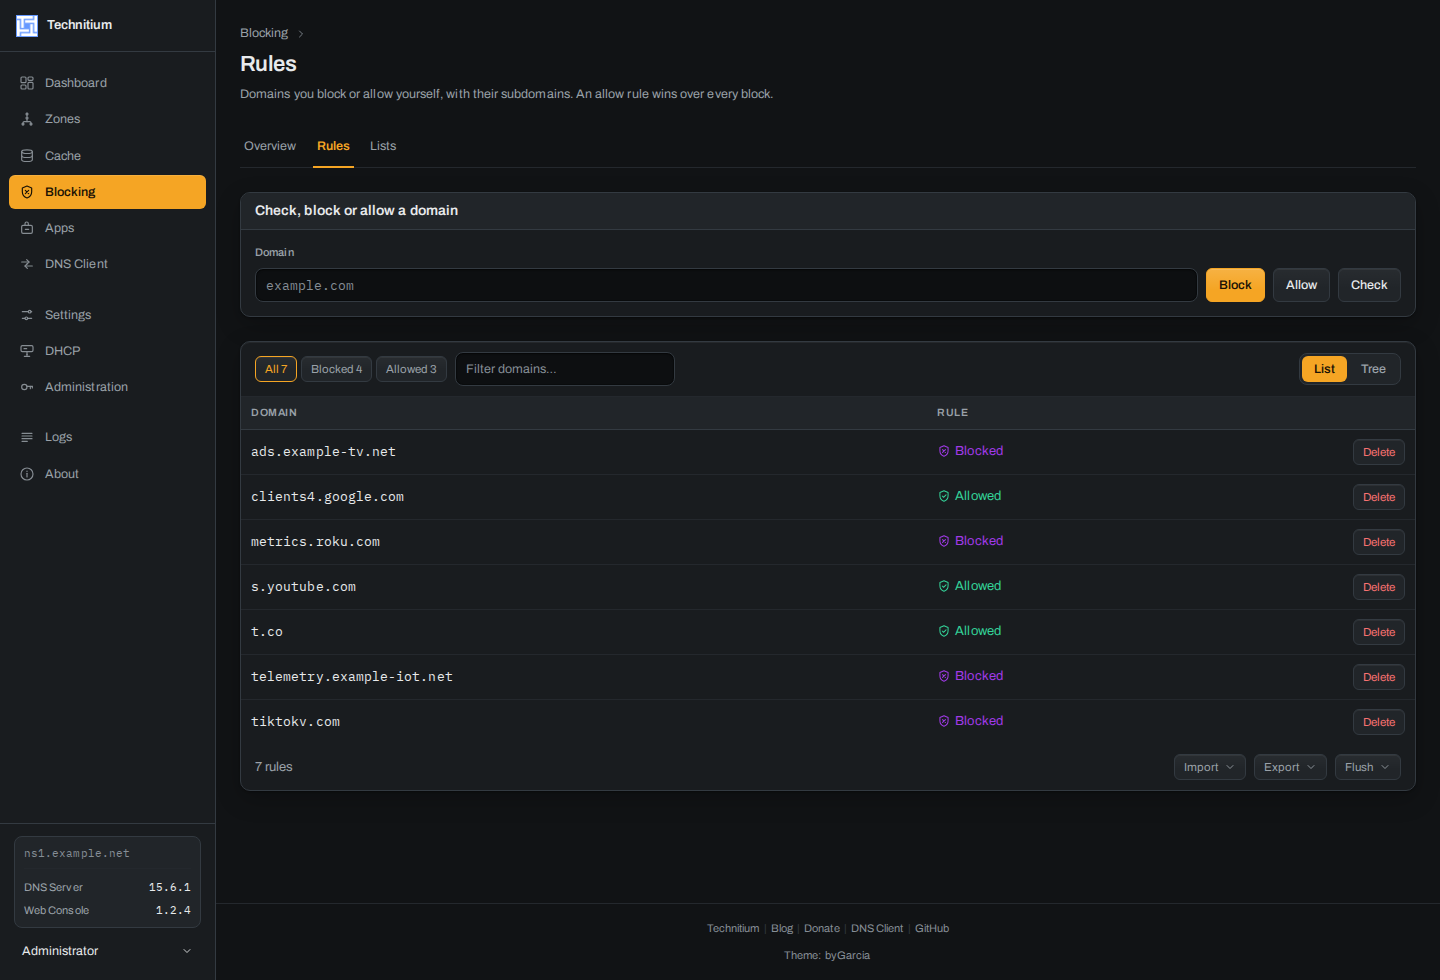
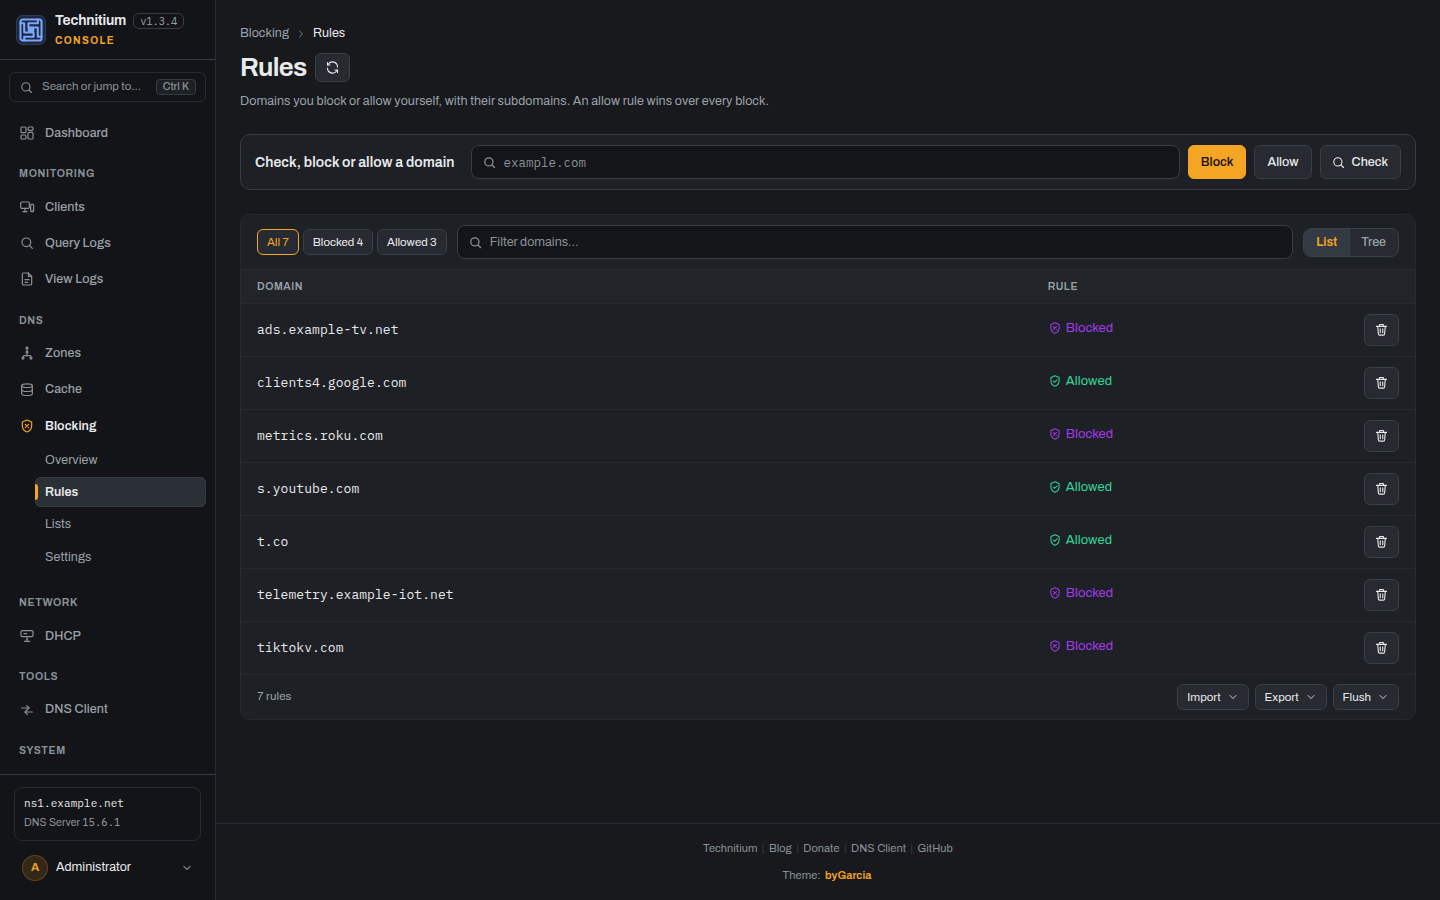
README: what the console adds, and every screen as it looks now
The README now says what this console brings beside the stock one: the Clients
page and its actions, the Dashboard's response times and resolution diagram,
Blocking in four tabs, the cluster views, Ctrl K and the regrouped sidebar, and
the four limits every addition keeps. The figures table is the scripts' again.
Every screenshot is retaken from the showcase, one per screen, and the social
preview is redrawn with the console's mark.

diff --git a/README.md b/README.md
@@ -3,7 +3,8 @@
 # technitium-console
 
 **A modern administration console for [Technitium DNS Server](https://github.com/TechnitiumSoftware/DnsServer).**
-Everything the stock console does, with blocking in one place, light and dark themes, and a layout
+Everything the stock console does, plus the screens it never had: who uses your DNS and what gets
+blocked for each device, every cluster node side by side, a search that jumps anywhere, and a layout
 that works on your phone.
 
 [![License](https://img.shields.io/github/license/byGarcia/technitium-console)](LICENSE)
@@ -14,38 +15,73 @@ that works on your phone.
 
 </div>
 
-| Dashboard | Blocking |
+| Dashboard | Clients |
 |---|---|
-| ![The dashboard](docs/screenshots/dashboard.png) | ![Blocking › Overview](docs/screenshots/blocking-overview.png) |
+| ![The dashboard](docs/screenshots/dashboard.png) | ![Clients, with one client open](docs/screenshots/clients.png) |
 
-**Latest: [v1.3.4](https://github.com/byGarcia/technitium-console/releases/latest) for Technitium DNS
-Server 15.5.x and 15.6.x**, with a Dashboard that moves in real time and compares periods, Allowed and Blocked as one
-Blocking section, a light theme, plus LDAP, the zone file editor and everything else 15.5 and 15.6
-brought.
+**Latest release: [v1.3.4](https://github.com/byGarcia/technitium-console/releases/latest) for
+Technitium DNS Server 15.5.x and 15.6.x.** What is coming next is under
+[Unreleased](CHANGELOG.md#unreleased).
 [What's new](CHANGELOG.md) · [Which console for which server](CHANGELOG.md#which-version-for-which-server) · [Installing](#installing) · [Technitium in Docker](#docker)
 
-It replaces the console the server ships with. Install it and the DNS service
-behaves exactly as before; remove it and you are back to the original. Nothing on
-the server side changes: this console talks to it only through its documented
-`/api` endpoints.
+It replaces the console the server ships with. Install it and the DNS service behaves exactly as
+before; remove it and you are back to the original. Nothing on the server side changes: this console
+talks to it only through the `/api` endpoints the stock console already uses.
 
 - **Every feature of the stock console**: zones, settings, DHCP, apps, logs and administration,
   through the same 132 API endpoints, with Technitium's own users and permissions.
-- **A Dashboard that answers at a glance**: every figure with its trend and its change against the
-  previous period, a week by hour, and charts that open Query Logs on what you click.
-- **Blocking in one place**: what it is doing, your own rules and your lists, and a check that tells
-  you why a domain is blocked, [below](#blocking-in-one-place).
-- **Light, dark or your system's theme**, measured for contrast in both.
-- **Works on a phone**: no section scrolls sideways at 390 px.
+- **Know who uses your DNS**: a Clients page with every device, how much it asks and how much of it
+  is blocked, and a card per client with its domains, its latest queries and one-click actions.
+- **A Dashboard that answers at a glance**: trends against the previous period, response times,
+  how each query was answered, and charts that open Query Logs on what you click or drag across.
+- **Blocking in one place**: what it is doing, your own rules, your lists and their settings, and a
+  check that tells you why a domain is blocked.
+- **Built for clusters**: zones, cache, query logs, DHCP and block lists from every node side by
+  side, with what disagrees between them marked.
+- **Ctrl K to anywhere**: any page, settings pane, zone or account action, or a domain to check,
+  resolve or look up in the logs.
+- **Light, dark or your system's theme**, measured for contrast in both, and **it works on a phone**:
+  no section scrolls sideways at 390 px.
 - **Nothing extra to run**: no backend, no database, no second login. It installs into the server's
   web folder or a Docker volume, and removing it brings the stock console back.
+
+## Know who uses your DNS
+
+The stock console lists your top clients as names and counts on the Dashboard. Here they are a
+page of their own, under **Monitoring › Clients**:
+
+- **Every client of the period**, with its queries, the share of them that was blocked and a tag
+  when a fifth or more is blocked or the server is rate limiting it. Filter, sort and search them,
+  or see the twenty busiest as one bar of who sends your traffic.
+- **A card for each client**: its address and, when your DHCP server hands it out, its MAC address
+  and host name; its queries, blocked share, cache hit rate and median response time; its activity
+  over time; the domains it asks for most and the ones blocked most, each with Block and Allow; the
+  protocols and record types it uses; and its ten latest queries.
+- **Act on it from there**: let it bypass blocking, exempt it from rate limiting, or turn its DHCP
+  lease into a reserved one. Each action is the server's own setting, asks before it saves and
+  needs the same permission it needs in Settings or DHCP.
+
+![A client's card: its actions, figures, activity and domains](docs/screenshots/client-detail.png)
+
+## A Dashboard that answers
+
+- **Every figure with its trend** and its change against the previous period, and a week by hour.
+- **Response Time**: the median and the 95th percentile of the answers the server had to fetch,
+  the share over 100 ms and a histogram, from the newest thousand queries.
+- **From query to answer**: one diagram from all the queries, through how the server answered them
+  (cache, recursion, its own zones, blocking) to what it answered (No Error, NX Domain, Server
+  Failure, Refused). Click a band to open those queries.
+- **Click a point, or drag across the chart**, and Query Logs opens on exactly that window.
+- **Last Hour moves in real time**, and Query Logs' Live Update shows what arrived since you turned
+  it on.
+
+![Response Time and From query to answer on the Dashboard](docs/screenshots/dashboard-response.png)
 
 ## Blocking, in one place
 
 The stock console spreads blocking over three places: Allowed and Blocked are two separate domain
 trees, and the block lists sit in Settings › Blocking. This console brings them together in one
-**Blocking** section, with what blocking is doing, your own rules and your lists each in one place.
-It is the one part of the console that goes beyond a new look:
+**Blocking** section:
 
 - **Overview** shows what blocking is doing: Total Queries and Blocked with their trend, the blocked
   share, allowed against blocked over time, the top blocked domains and the last ten blocked
@@ -53,47 +89,94 @@ It is the one part of the console that goes beyond a new look:
 - **Rules** puts every domain you blocked or allowed by hand in one table, filtered, searchable and
   paged however many there are. The domain tree you already know is one switch away.
 - **Lists** turns your block and allow lists into rows, each with its readable name, an Enabled
-  switch and Remove. Add one by URL or with Quick Add, update them all with Update Now, and nothing
-  changes until you Save.
+  switch and Remove, when each was last updated, and how the number of blocked domains has grown.
+  Add one by URL or with Quick Add, and Save and Update Now in one step.
+- **Settings** holds the blocking settings that used to live in Settings › Blocking.
 - **Check a domain** and see whether this server blocks it and why: which block lists, which of your
-  rules, or which allow rule lets it through.
+  rules, or which allow rule lets it through. As you type, it tells you whether one of your rules
+  already covers it.
 - **Group your lists** under named headings, saved as plain comment lines, so the stock console still
-  reads them.
-- **Undo** a rule you deleted from the Rules table, and see in the sidebar when blocking is off or
-  paused.
-- **Block or allow a domain** from Overview or Rules, or from the menu on any row of Top Domains and
-  Top Blocked Domains.
+  reads them, and **undo** a rule you deleted.
 
-| Rules | Lists |
+| Overview | Lists |
 |---|---|
-| ![Blocking › Rules](docs/screenshots/blocking-rules.png) | ![Blocking › Lists](docs/screenshots/blocking-lists.png) |
+| ![Blocking › Overview](docs/screenshots/blocking-overview.png) | ![Blocking › Lists](docs/screenshots/blocking-lists.png) |
 
-## What it looks like
-
-| Zones | Settings |
+| Rules | Settings |
 |---|---|
-| ![Zones](docs/screenshots/zones.png) | ![Settings](docs/screenshots/settings.png) |
+| ![Blocking › Rules](docs/screenshots/blocking-rules.png) | ![Blocking › Settings](docs/screenshots/blocking-settings.png) |
 
-| Cache, and the tree in Blocking › Rules | Apps |
+## Built for clusters
+
+Each node of a Technitium cluster keeps its own cache, query log, DHCP leases and copy of the block
+lists, and the stock console shows one node at a time. Here, on a cluster, **All nodes** lays them
+side by side:
+
+- **Zones**: every zone with its type and serial on each node, and a health cell for a zone missing
+  on a node or serials that disagree.
+- **Cache**: the records each node holds for a domain, with each node's time to live.
+- **Query Logs**: the newest queries of every node in one table, with a Node column, live.
+- **DHCP**: every node's leases and scopes together, each row acting on its own node.
+- **Block lists**: each node's blocked domains and when it last updated its copy.
+- **Administration › Cluster** compares the nodes' settings and marks the ones that differ, and
+  splits the queries by node. The Dashboard can draw a line per node.
+
+A node that does not answer is named once with the server's message and left out of the
+comparison. The cluster views are new: if you run a cluster, a report of how they behave on yours is
+very welcome.
+
+## Ctrl K to anywhere
+
+Press **Ctrl K** (⌘K on a Mac), or the search field under the logo, and type. Pages, sections,
+Settings panes, your zones and the account menu are one keystroke away. Type a domain and it offers
+to check it in Blocking, resolve it in DNS Client, find it in Cache or search Query Logs for it; type
+an address and it searches the logs for that client.
+
+![The command palette](docs/screenshots/command-palette.png)
+
+## Every screen, reorganised
+
+The sidebar is grouped by what you came to do: **Monitoring** (Clients, Query Logs, View Logs),
+**DNS** (Zones, Cache, Blocking), **Network** (DHCP), **Tools** (DNS Client) and **System**
+(Settings, Apps, Administration, About). Every screen was redrawn in the same language, and many say
+more than they used to:
+
+- **Zones** says what each zone holds and adds a host record (with its reverse record) from the list
+  in one line; the open zone is in the address bar.
+- **Cache** reads like a zone, with the path to where you are.
+- **DHCP** shows how full each scope is.
+- **DNS Client** lays the answer out by section, record by record.
+- **Settings** is one form with a search; **Apps** says what each app is for; **My Profile** is a
+  page.
+
+| Zones | A zone |
 |---|---|
-| ![The domain tree](docs/screenshots/cache.png) | ![Apps](docs/screenshots/apps.png) |
+| ![Zones](docs/screenshots/zones.png) | ![A zone's records](docs/screenshots/zone-records.png) |
 
-| Query Logs | Login |
+| Query Logs | Cache |
 |---|---|
-| ![Query Logs](docs/screenshots/query-logs.png) | ![The login screen](docs/screenshots/login.png) |
+| ![Query Logs with Live Update on](docs/screenshots/query-logs.png) | ![Cache](docs/screenshots/cache.png) |
 
-![Blocking › Overview in the light theme](docs/screenshots/blocking-overview-light.png)
+| DNS Client | Settings |
+|---|---|
+| ![DNS Client](docs/screenshots/dns-client.png) | ![Settings](docs/screenshots/settings.png) |
 
-**Light or dark, or whatever your system uses**, from Change Theme in the account menu, as in the
-stock console. Both themes are measured: every text colour reaches 4.5:1 on every surface it is
-drawn on.
+| Apps | Administration |
+|---|---|
+| ![Apps](docs/screenshots/apps.png) | ![Administration › Permissions](docs/screenshots/administration.png) |
 
-The domain tree is one component, shared by Cache and by the Tree view of Blocking › Rules, and the
-screens it served used to be indistinguishable. The tree is the object you came to look at, so it is
-a column and not a box; the path says where you are; and the colour on the records panel is the one
-that already means *cached* and *blocked* in the Dashboard chart and in the Logs rows.
+| View Logs | My Profile |
+|---|---|
+| ![View Logs](docs/screenshots/logs.png) | ![My Profile](docs/screenshots/profile.png) |
 
-<img src="docs/screenshots/mobile.png" alt="The console at 390 px" width="320" align="right">
+| About | Login |
+|---|---|
+| ![About](docs/screenshots/about.png) | ![The login screen](docs/screenshots/login.png) |
+
+![The Dashboard in the light theme](docs/screenshots/dashboard-light.png)
+
+**Light or dark, or whatever your system uses**, from Change Theme in the account menu or from
+Ctrl K. Both themes are measured: every text colour reaches 4.5:1 on every surface it is drawn on.
 
 **It works on a phone.** The stock console overflows horizontally on a 390 px
 screen in twelve of its sections. This one does not overflow in any: the tables
@@ -101,41 +184,43 @@ reflow, the navigation collapses, and the actions stay reachable. That was not a
 side effect. It was a defect found by measuring every section at 390 px and
 fixed one by one.
 
-<br clear="right">
+![The Dashboard, Clients and the menu at 390 px](docs/screenshots/mobile.png)
 
 ## Safe to put in front of your DNS
 
-**Design only. Zero functionality.** That is the rule the whole project is built on, and it is
-worth stating plainly because it is unusual:
+**What the stock console does, this one does the same way.** That is the rule the whole project is
+built on:
 
-> Any behavioural difference from the upstream console is a bug, **even when it
+> Any difference from the stock console in something it already does is a bug, **even when it
 > looks like an improvement**.
 
-Same controls, same steps, same wording, same validation order. If a feature was
-missing before, it is still missing. If a confirmation asked twice, it still asks
-twice. You are changing how the console looks, not what your DNS server does.
-That is the only reason it is safe to put a third-party interface in front of
-infrastructure.
+Same controls, same steps, same wording, same validation order. If a confirmation asked twice, it
+still asks twice. What this console adds sits beside that, under four limits:
 
-A few deliberate exceptions are written down rather than slipped in: **Blocking**,
-above; the **Dashboard's** comparisons with the previous period, its week by hour and
-its jumps to Query Logs; and the **login cover** beside the stock form. They call only
-endpoints the server already has, and each of their files declares the words that are
-its own; `/allowed/` and `/blocked/` still land. Their limits, and the other
-deliberate deviations, are in
-[CONVENTIONS.md](CONVENTIONS.md#deliberate-deviations-from-upstream-behaviour).
+- **Only endpoints the stock console already calls.** Nothing new is asked of your server, and the
+  same permissions guard every call.
+- **Read first.** Almost everything added only reads. The additions that write (a client's
+  Bypass Blocking and rate limit exemption, its lease conversion, the quick host record, Save and
+  Update Now, undoing a deleted rule, the headings in your lists) send exactly what the stock
+  console sends for the same change and need the permission it asks for; the client's actions
+  ask before they save.
+- **Every addition is written down**, with its limits, in
+  [CONVENTIONS.md](CONVENTIONS.md#deliberate-deviations-from-upstream-behaviour), and the words that
+  are this console's own are declared in each file.
+- **Old addresses still land**: `/allowed/`, `/blocked/` and `/settings/blocking/` take you to their
+  new place.
 
 ## How thoroughly
 
 | | |
 |---|---|
 | Checked against | Technitium DNS Server 15.6.2 |
-| Sections | 11 |
-| Routes, each a real URL | 34 |
+| Sections | 12 |
+| Routes, each a real URL | 36 |
 | API endpoints the stock console calls, and this one calls too | 132 of 132 |
 | Sortable columns kept | 64 of 66, and the two missing are declared |
-| Dialogs, checked one by one | 44 |
-| Tests | 1,838 |
+| Dialogs and confirmations | 111 and 34 |
+| Tests | 2,651 |
 
 Every figure in that table comes from a script in `dev/` (`check-endpoints.mjs`,
 `check-parity-sort.mjs`, `dialog-inventory.sh`) and not from this paragraph.
@@ -457,7 +542,7 @@ route, and it also says which parts belong upstream instead. Everybody taking pa
 ## ❤ Support
 
 This console is free and stays free, and it will never ask your DNS server for anything it does not
-already answer. If it made the machine your whole network resolves through nicer to look at, there
+already answer. If it made the machine your whole network resolves through easier to run, there
 is [GitHub Sponsors](https://github.com/sponsors/byGarcia),
 [Ko-fi](https://ko-fi.com/bygarcia),
 [Liberapay](https://liberapay.com/bygarcia) and
@@ -466,7 +551,7 @@ as much.
 
 And if you have not already: **[Technitium DNS Server](https://github.com/TechnitiumSoftware/DnsServer)
 is the thing doing the actual work here**, written and maintained by one person. It takes donations
-too, and that is the more useful place to start.
+too.
 
 ---
 
